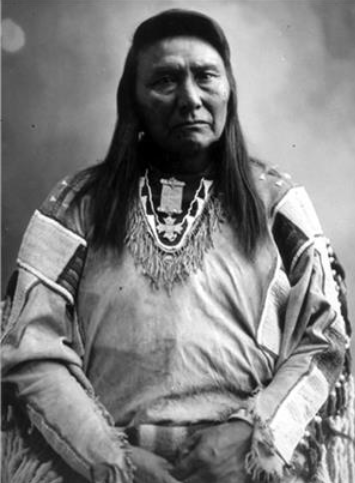
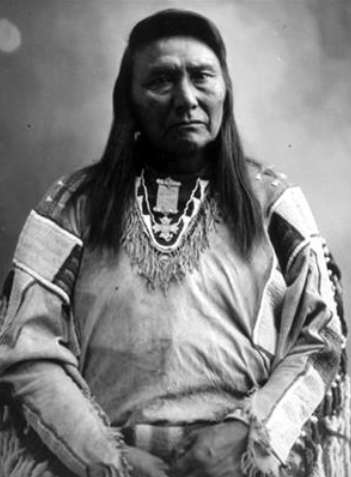
Add corrections

diff --git a/index.html b/index.html
@@ -9,19 +9,17 @@
 <body>
     <main id ="main">
         <h1 id="title">Chief Joseph (1840-1904)</h1>
-        <section>
-            <img id="image" src="img/ChiefJ1.jpg" alt="A photo of Chief Joseph dressed in traditional Native American chief attire.">
-        <p>Chief Joseph is famous for leading his people on an epic flight across the Rocky Mountains.</p>
-        <figure id="img-div">
-            <img id="image" src="ChiefJ1.jpg" alt="A photo of Chief Joseph dressed in traditional Native American chief attire.">
+        
+         <figure id="img-div">
+            <img id="" src="img/ChiefJ1.jpg" alt="Chief Joseph dressed in traditional Native American attire">
             <figcaption id="img-caption">Chief Joseph dressed in traditional Native American chief attire.</figcaption>
-        </figure>
-    </section>
-    <section>
-<div id="tribute-info">
-    <p>Chief Joseph organized a retreat to protect his people. He led 600 Nez Perce 1,400 miles toward the Canadian border. He fought and won against the US army in several battles along the journey over the summer of 1877. However, cornered by US troops, facing an upcoming winter with no food and no supplies, Chief Joseph worried that his people would not survive. Chief Joseph then surrendered, saying, “I am tired. My heart is sick and sad. From where the sun now stands I will fight no more forever.” The tribe was sent to a reservation in Oklahoma.</p>
-</div>
- <a id="tribute-link" href="https://www.historylink.org/File/8975" target="_blank">Tribute Link</a> 
+         </figure>
+        
+    
+        <div id="tribute-info">
+          <p>Chief Joseph organized a retreat to protect his people. He led 600 Nez Perce 1,400 miles toward the Canadian border. He fought and won against the US army in several battles along the journey over the summer of 1877. However, cornered by US troops, facing an upcoming winter with no food and no supplies, Chief Joseph worried that his people would not survive. Chief Joseph then surrendered, saying, “I am tired. My heart is sick and sad. From where the sun now stands I will fight no more forever.” The tribe was sent to a reservation in Oklahoma.</p>
+        </div>
+       <a id="tribute-link" href="https://www.historylink.org/File/8975" target="_blank">Tribute Link</a> 
 
     </main>
 </body>

diff --git a/styles.css b/styles.css
@@ -5,15 +5,17 @@ body {
 
 #title {
     text-align: center;
+    color: bisque;
 }
 
 img {
-    display:block;
+  display:flex;
+  justify-content: center;
     
   }
   
   #image {
-    max-width: 100%;
-    height: auto;
+    
+    
   }
   
